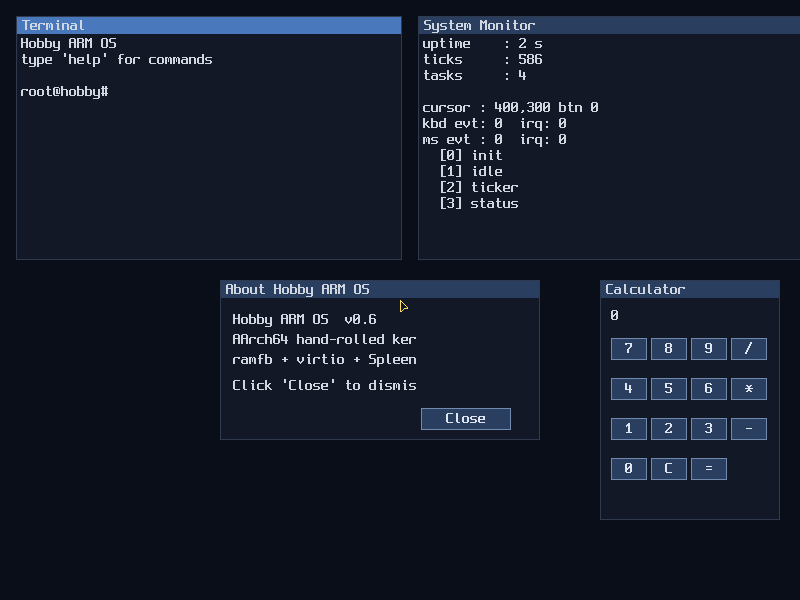
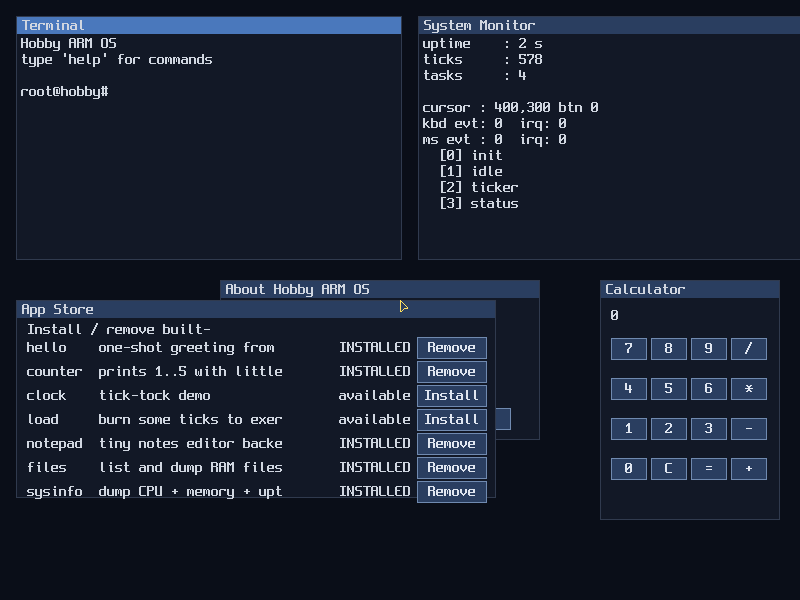
App Store window + 3 new built-in packages
A pkg_t-driven window that lists every entry in the catalog with
its summary, an INSTALLED/available status label, and an
Install/Remove toggle button. Clicking the button calls into
pkg_install_by_name / pkg_remove_by_name and immediately refreshes
the row's labels via widget_set_text. From this point the package
manager has both a CLI face (pkg list / install / remove) and a
GUI face (App Store window).

Catalog grows three new entries -- notepad, files, sysinfo -- and
they ship installed by default. They are stub apps right now
(printf-only) until the typed text-input widget lands and lets
notepad become a real interactive editor.

WIN_MAX_WIDGETS bumped from 16 to 64 so a busy dialog like the
store (4 widgets per row x 7 rows) fits without overflow.

diff --git a/src/kernel.c b/src/kernel.c
@@ -227,7 +227,64 @@ static window_t *win_terminal;
 static window_t *win_monitor;
 static window_t *win_about;
 static window_t *win_calc;
+static window_t *win_store;
 static widget_t *calc_display;
+
+/* ---------------- App Store ---------------- */
+
+#include "pkgmgr.h"
+
+#define STORE_MAX_ENTRIES 8
+static widget_t *store_status_lbl[STORE_MAX_ENTRIES];
+static widget_t *store_action_btn[STORE_MAX_ENTRIES];
+
+static void store_refresh_row(int idx) {
+    int installed = pkg_is_installed(idx);
+    widget_set_text(store_status_lbl[idx],
+                    installed ? "INSTALLED" : "available");
+    widget_set_text(store_action_btn[idx],
+                    installed ? "Remove" : "Install");
+}
+
+static void store_action_cb(window_t *w, widget_t *self) {
+    (void)w;
+    /* find which package this button belongs to */
+    for (int i = 0; i < STORE_MAX_ENTRIES; i++) {
+        if (store_action_btn[i] == self) {
+            if (pkg_is_installed(i)) {
+                pkg_remove_by_name(pkg_name_at(i));
+            } else {
+                pkg_install_by_name(pkg_name_at(i));
+            }
+            store_refresh_row(i);
+            return;
+        }
+    }
+}
+
+static void build_store_window(void) {
+    int n = pkg_count();
+    if (n > STORE_MAX_ENTRIES) n = STORE_MAX_ENTRIES;
+
+    const int row_h = 24;
+    int win_w = 480;
+    int win_h = 22 + n * row_h + 8;
+
+    win_store = window_create_widget("App Store", 16, 300, win_w, win_h);
+
+    window_add_label(win_store, 10, 4, win_w - 20,
+                     "Install / remove built-in packages");
+
+    for (int i = 0; i < n; i++) {
+        int row_y = 22 + i * row_h;
+        window_add_label (win_store,  10, row_y,  72, pkg_name_at(i));
+        window_add_label (win_store,  82, row_y, 240, pkg_summary_at(i));
+        store_status_lbl[i] = window_add_label (win_store, 322, row_y,  80, "");
+        store_action_btn[i] = window_add_button(win_store, 400, row_y - 3, 70,
+                                                "", store_action_cb);
+        store_refresh_row(i);
+    }
+}
 
 static void about_close_cb(window_t *w, widget_t *g) {
     (void)g;
@@ -480,6 +537,7 @@ void kernel_main(void) {
         window_add_button(win_about, 200, 110, 90, "Close", about_close_cb);
 
         build_calculator_window();
+        build_store_window();
     }
 #endif
 

diff --git a/src/user_program.c b/src/user_program.c
@@ -106,3 +106,30 @@ void user_main_load(void) {
     sys_write("\n[load] done\n");
     sys_exit();
 }
+
+void user_main_notepad(void) {
+    sys_write("[notepad] tiny editor\n");
+    sys_write("[notepad] usage from the shell:\n");
+    sys_write("[notepad]   write notes hello there\n");
+    sys_write("[notepad]   cat notes\n");
+    sys_write("[notepad]   rm notes\n");
+    sys_write("[notepad] (a real interactive notepad needs a typed\n");
+    sys_write("[notepad]  text-input widget; that lands next.)\n");
+    sys_exit();
+}
+
+void user_main_files(void) {
+    sys_write("[files] use 'ls' for a listing, 'cat <file>' to read\n");
+    sys_write("[files] this app is a stub until the file-browser\n");
+    sys_write("[files] window lands.\n");
+    sys_exit();
+}
+
+void user_main_sysinfo(void) {
+    sys_write("[sysinfo] use the shell commands:\n");
+    sys_write("[sysinfo]   uname -a\n");
+    sys_write("[sysinfo]   cpuinfo\n");
+    sys_write("[sysinfo]   meminfo\n");
+    sys_write("[sysinfo]   uptime\n");
+    sys_exit();
+}

diff --git a/src/pkgmgr.c b/src/pkgmgr.c
@@ -13,7 +13,10 @@ static pkg_t catalog[] = {
     {"hello",   "one-shot greeting from a user task",       user_main_hello,   1},
     {"counter", "prints 1..5 with little pauses",           user_main_counter, 1},
     {"clock",   "tick-tock demo",                            user_main_clock,   0},
-    {"load",    "burn some ticks to exercise the scheduler", user_main_load,    0},
+    {"load",    "burn some ticks to exercise scheduler",    user_main_load,    0},
+    {"notepad", "tiny notes editor backed by RAM fs",       user_main_notepad, 1},
+    {"files",   "list and dump RAM filesystem contents",    user_main_files,   1},
+    {"sysinfo", "dump CPU + memory + uptime info",          user_main_sysinfo, 1},
     {0, 0, 0, 0},
 };
 

diff --git a/src/user_program.h b/src/user_program.h
@@ -5,5 +5,8 @@ void user_main_hello(void);
 void user_main_counter(void);
 void user_main_clock(void);
 void user_main_load(void);
+void user_main_notepad(void);
+void user_main_files(void);
+void user_main_sysinfo(void);
 
 #endif

diff --git a/src/window.h b/src/window.h
@@ -18,7 +18,7 @@
 #define WIDGET_BUTTON 1
 
 #define WIDGET_TEXT_MAX 24
-#define WIN_MAX_WIDGETS 16
+#define WIN_MAX_WIDGETS 64
 
 struct window;
 
